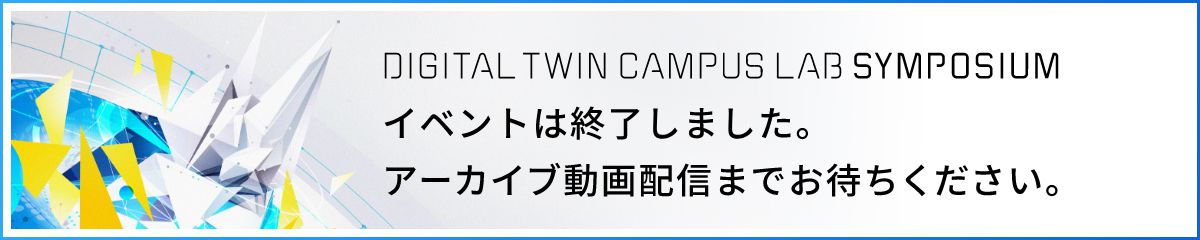
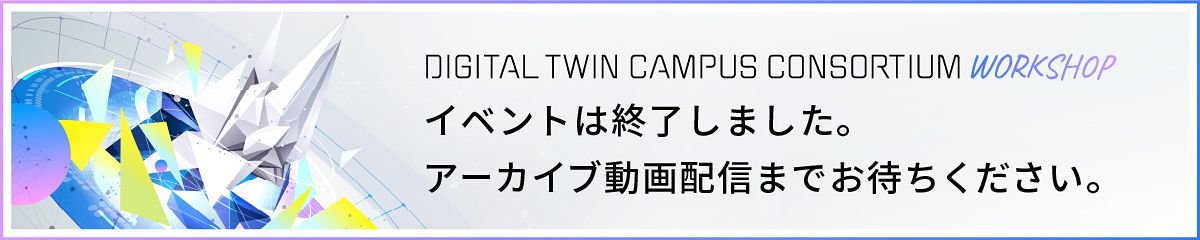
終了後更新（アーカイブ待ち）

Changed region(s): [[0.0, 0.0, 1.0, 1.0], [0.3083, 0.4375, 0.7092, 0.5833]]

diff --git a/index.html b/index.html
@@ -80,7 +80,7 @@
           <a href="#contact" class="main_menu_item_link">CONTACT</a>
         </li>
       </ul>
-      <a href="https://forms.gle/ZA7dnXPUTUL5HTaz6" target="_blank" class="nav_btn_watch"><p>お申し込みはこちら</p></a>
+      <a class="nav_btn_watch comingsoon"><img src="./assets/img/nav_btn_watch_finished_pc.svg" alt="アーカイブはこちら -COMING SOON-" width="155" height="50"></a>
     </nav>
   </header>
 
@@ -99,7 +99,18 @@
       </h2>
     </section><!-- /keyvisual -->
 
-    <a href="https://forms.gle/ZA7dnXPUTUL5HTaz6" target="_blank" class="main_btn_watch"><p>お申し込みはこちら</p></a>
+    <section class="banner_area">
+      <div class="section_inner banner_area_inner">
+        <a href="" target="_blank" class="bn_watch comingsoon">
+          <picture>
+            <source srcset="assets/img/btn_watch_finished_sp.jpg" media="(max-width: 768px)" width="670" height="300">
+            <img src="assets/img/btn_watch_finished_pc.jpg" alt="DIGITAL TWIN CAMPUS CONSORTIUM WORKSHOP イベントは終了しました。アーカイブ動画配信までお待ちください。" loading="lazy" width="1200" height="240">
+          </picture>
+        </a>
+      </div><!-- /section_inner --> 
+    </section>
+
+    <a class="main_btn_watch comingsoon"><img src="./assets/img/nav_btn_watch_finished_sp.svg" alt="アーカイブはこちら -COMING SOON-" width="375" height="80"></a>
 
     <section id="overview" class="overview">
       <div class="section_inner overview_inner">

diff --git a/assets/css/style.css b/assets/css/style.css
@@ -207,6 +207,9 @@ a {
 .nav_btn_watch:hover {
   opacity: 0.8;
 }
+.nav_btn_watch.comingsoon:hover {
+  opacity: 1;
+}
 .nav_btn_watch p {
   color: #fff;
   font-size: 14px;
@@ -389,6 +392,10 @@ a {
     top: 0;
     left: 0;
     z-index: 5;
+  }
+  .main_btn_watch.comingsoon {
+    display: block;
+    height: auto;
   }
   .main_btn_watch p {
     color: #fff;
